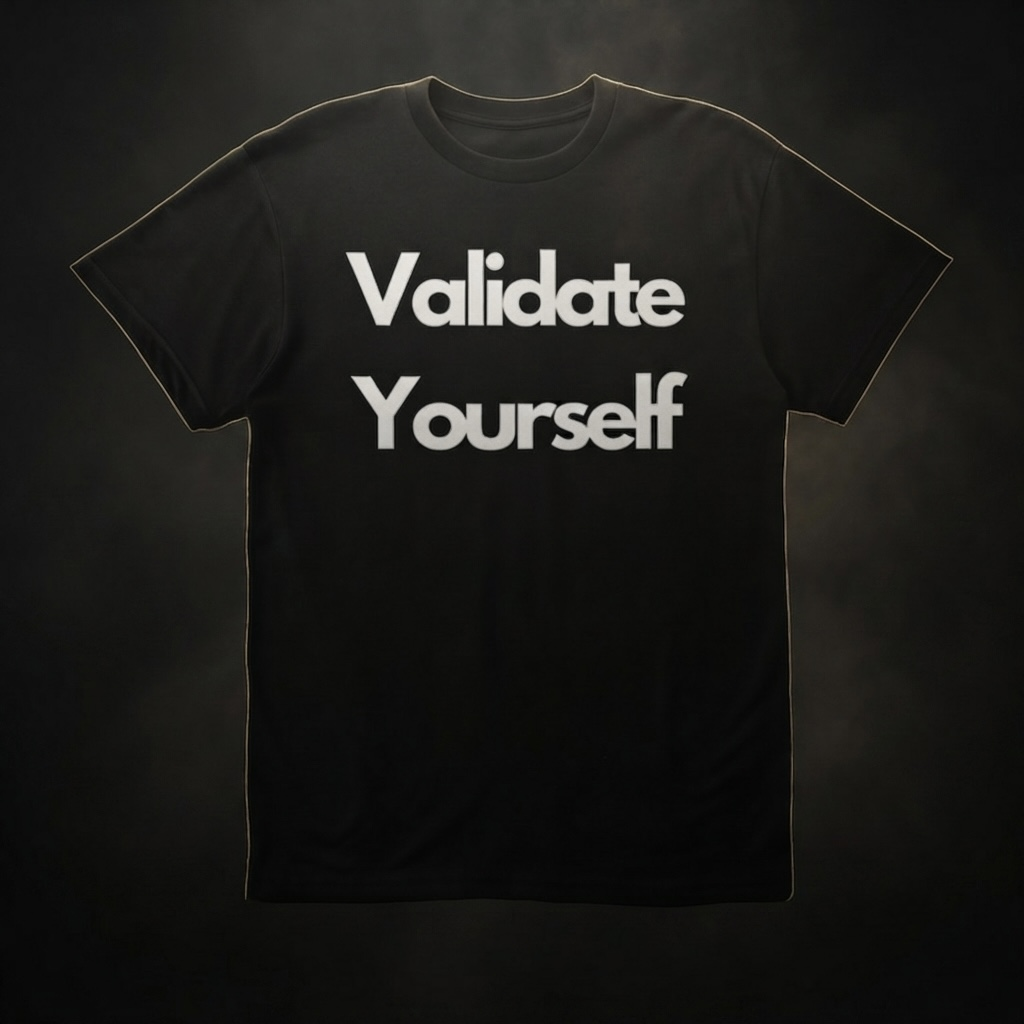
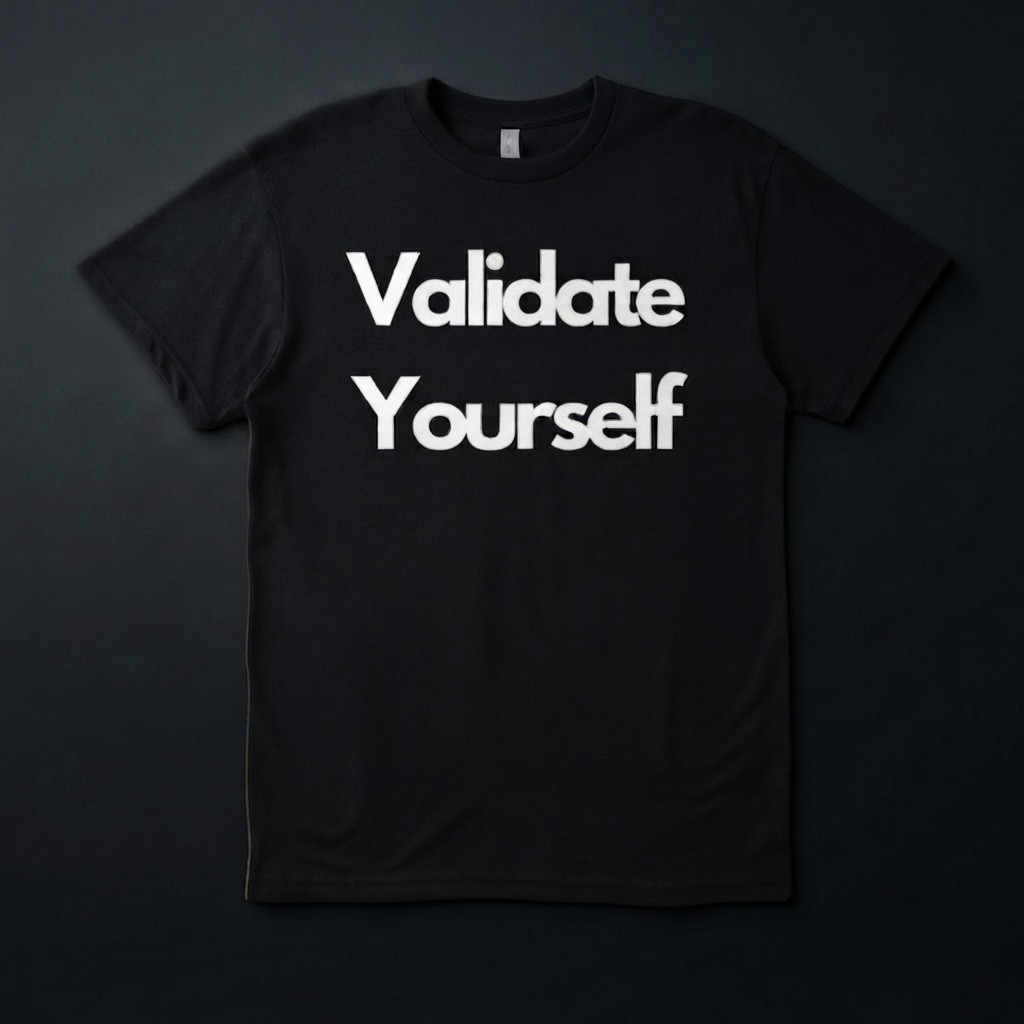
Add files via upload
Adding to gallery...

diff --git a/index.html b/index.html
@@ -370,7 +370,7 @@
       <p>She has been seen and heard on outlets such as Shade 45's Rap Is Outta Control, Sway In The Morning, Sway's Universe, Chuck D's "And You Don't Stop" radio show, and the Rock The Bells platform, and was one of 12 winners of The Saga Continues Contest, organized by Sway Calloway and RZA of Wu-Tang Clan.</p>
       <p>She has graced stages including BAM, The Kennedy Center, SOB's, The Nuyorican Poets Cafe, The Knitting Factory, The Blue Note Jazz Club, The Apache Cafe, and The Phoenix Concert Theatre. She has toured Venezuela, Iraq, France, Switzerland, Brussels, Canada, and Serbia.</p>
     </div>
-    <img src="https://nejmanefertiti.com/wp-content/uploads/2025/01/IMG_8440-755x1024.jpg" alt="Nejma Nefertiti" loading="lazy">
+    <img src="gallery-12.jpeg" alt="Nejma Nefertiti" loading="lazy">
   </div>
 </section>
 
@@ -417,6 +417,19 @@
   <div class="gallery-grid">
     <a href="https://nejmanefertiti.com/wp-content/uploads/2025/01/C99C1538-FE9D-4E59-92A2-994FEB84D4CA-1024x1024.jpg" target="_blank" rel="noopener"><img loading="lazy" src="https://nejmanefertiti.com/wp-content/uploads/2025/01/C99C1538-FE9D-4E59-92A2-994FEB84D4CA-1024x1024.jpg" alt="Nejma Nefertiti performance photo"></a>
     <a href="gallery-12.jpeg" target="_blank" rel="noopener"><img loading="lazy" src="gallery-12.jpeg" alt="Nejma Nefertiti photo"></a>
+    <a href="gallery-04.jpeg" target="_blank" rel="noopener"><img loading="lazy" src="gallery-04.jpeg" alt="Nejma Nefertiti photo"></a>
+    <a href="gallery-14.jpeg" target="_blank" rel="noopener"><img loading="lazy" src="gallery-14.jpeg" alt="Nejma Nefertiti photo"></a>
+    <a href="gallery-15.jpeg" target="_blank" rel="noopener"><img loading="lazy" src="gallery-15.jpeg" alt="Nejma Nefertiti photo"></a>
+    <a href="gallery-16.jpeg" target="_blank" rel="noopener"><img loading="lazy" src="gallery-16.jpeg" alt="Nejma Nefertiti photo"></a>
+    <a href="gallery-17.jpeg" target="_blank" rel="noopener"><img loading="lazy" src="gallery-17.jpeg" alt="Nejma Nefertiti photo"></a>
+    <a href="gallery-18.jpeg" target="_blank" rel="noopener"><img loading="lazy" src="gallery-18.jpeg" alt="Nejma Nefertiti photo"></a>
+    <a href="gallery-19.jpeg" target="_blank" rel="noopener"><img loading="lazy" src="gallery-19.jpeg" alt="Nejma Nefertiti photo"></a>
+    <a href="gallery-20.jpeg" target="_blank" rel="noopener"><img loading="lazy" src="gallery-20.jpeg" alt="Nejma Nefertiti photo"></a>
+    <a href="gallery-21.jpeg" target="_blank" rel="noopener"><img loading="lazy" src="gallery-21.jpeg" alt="Nejma Nefertiti photo"></a>
+    <a href="gallery-22.jpeg" target="_blank" rel="noopener"><img loading="lazy" src="gallery-22.jpeg" alt="Nejma Nefertiti photo"></a>
+    <a href="gallery-23.jpeg" target="_blank" rel="noopener"><img loading="lazy" src="gallery-23.jpeg" alt="Nejma Nefertiti photo"></a>
+    <a href="gallery-24.jpeg" target="_blank" rel="noopener"><img loading="lazy" src="gallery-24.jpeg" alt="Nejma Nefertiti photo"></a>
+    <a href="gallery-25.jpeg" target="_blank" rel="noopener"><img loading="lazy" src="gallery-25.jpeg" alt="Nejma Nefertiti photo"></a>
   </div>
 </section>
 